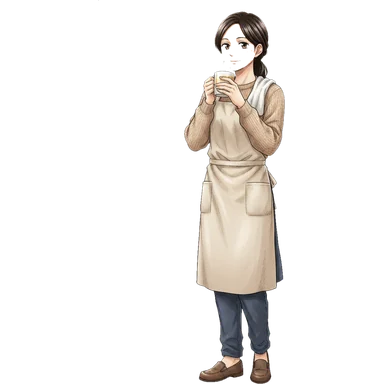
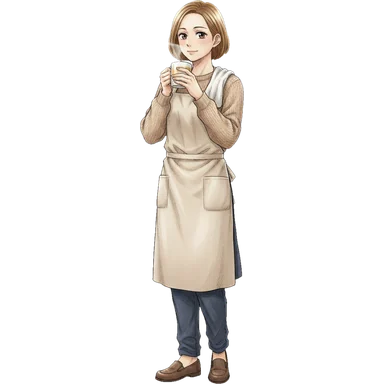
妻をショートカットの茶髪に
Claude-Session: https://claude.ai/code/session_019xnD9zf1824211ZEpgvXov

Changed region(s): [[0.3438, 0.0, 0.75, 1.0]]

diff --git a/habit-check/public/sw.js b/habit-check/public/sw.js
@@ -1,5 +1,5 @@
 // 画面ファイルだけをキャッシュする（/api は常にネットワーク）
-const CACHE = "habit-check-v19";
+const CACHE = "habit-check-v20";
 const SHELL = ["./", "index.html", "app.js", "aibou.js", "aibou-sprites.js", "art-index.js", "theater.js", "theater-gl.js", "theater-script.js", "theater-speakers.js", "theater-stage.js", "style.css", "manifest.webmanifest", "icons/icon-192.png", "img/walnut.jpg", "img/oak.jpg"];
 
 self.addEventListener("install", (e) => {
